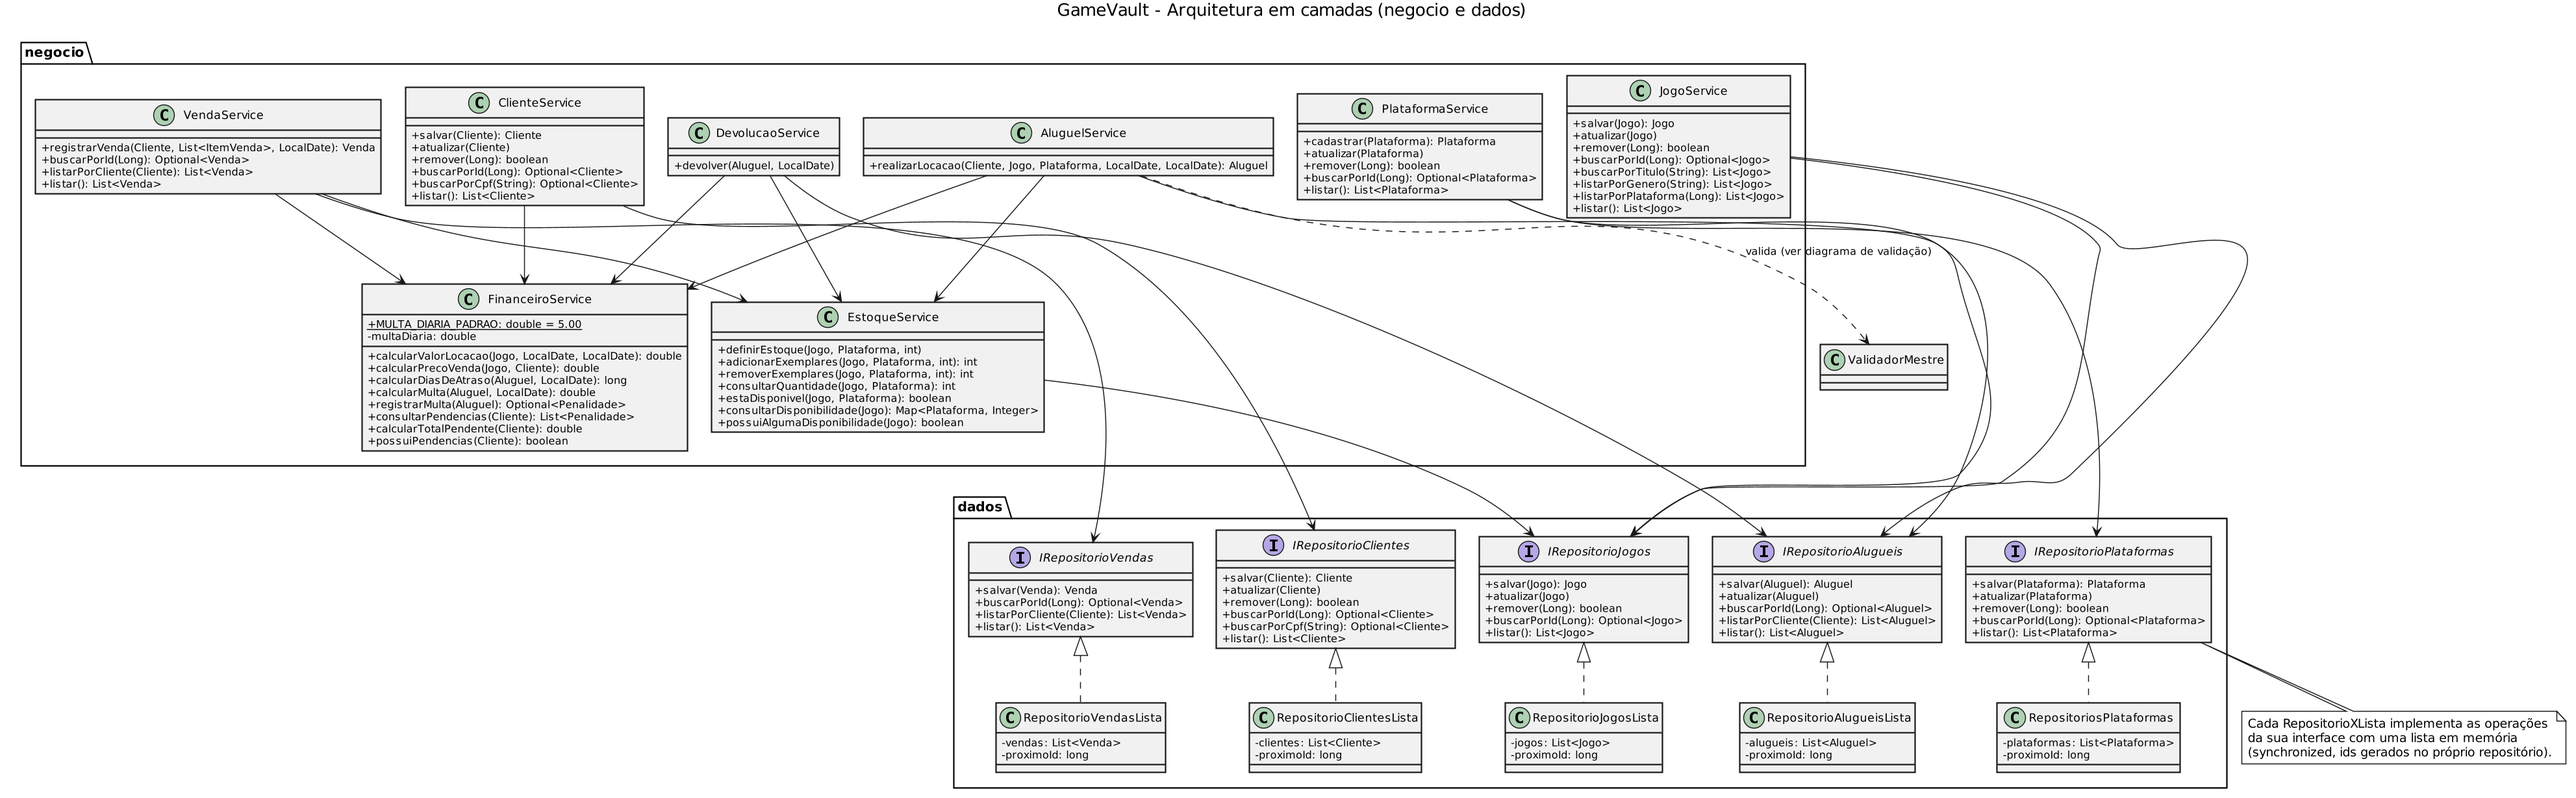
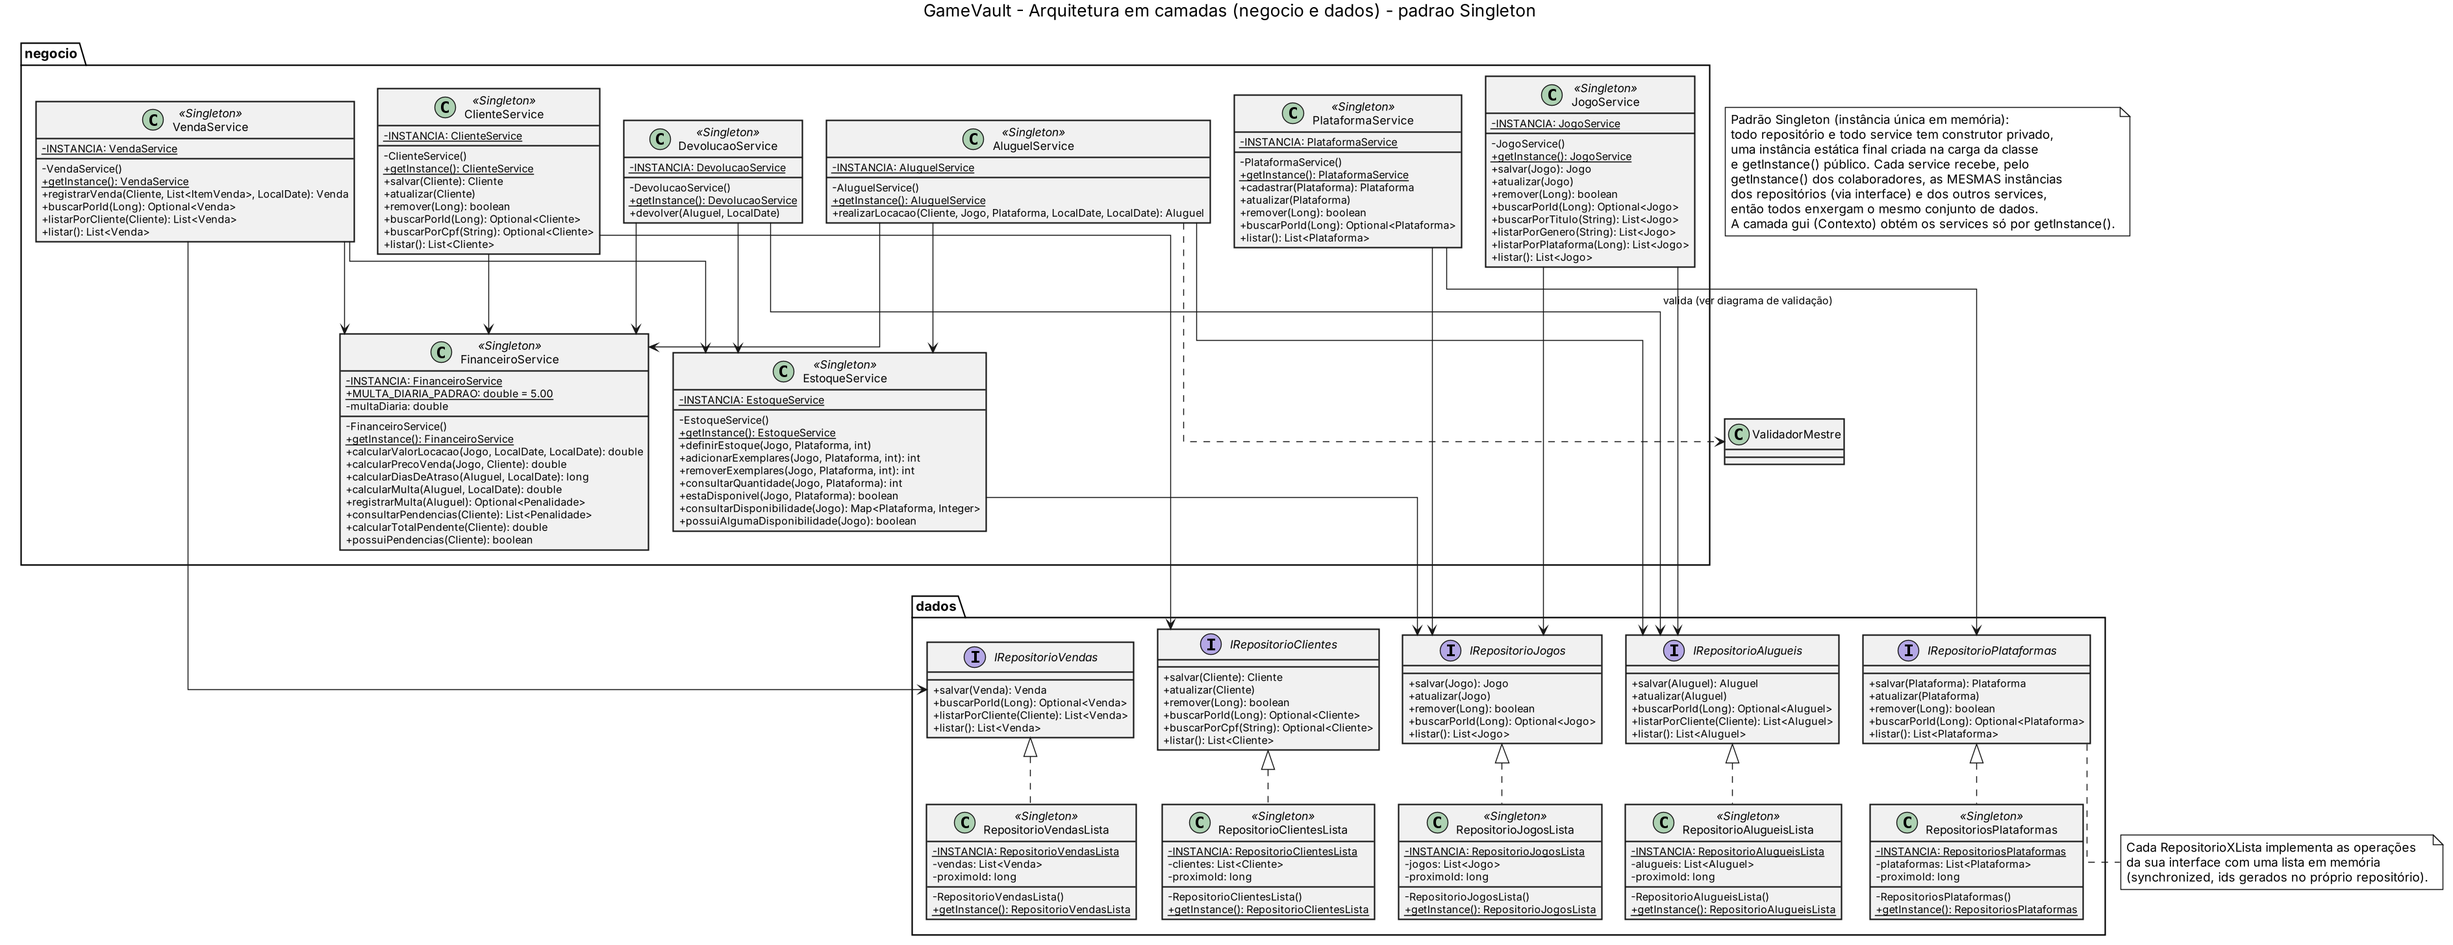
implementação do padrao singleton nos services

diff --git a/src/gui/Contexto.java b/src/gui/Contexto.java
@@ -1,8 +1,12 @@
 package gui;
 
-import dados.*;
 import negocio.*;
 
+/**
+ * Ponto de acesso da interface aos services. Os services (e os repositórios por trás deles) são
+ * Singletons: existe uma única instância de cada um em memória, então telas diferentes enxergam
+ * os mesmos dados.
+ */
 public class Contexto {
 
     private static final Contexto INSTANCIA = new Contexto();
@@ -11,21 +15,20 @@ public class Contexto {
     private final ClienteService clienteService;
     private final EstoqueService estoqueService;
     private final AluguelService aluguelService;
+    private final DevolucaoService devolucaoService;
+    private final VendaService vendaService;
+    private final FinanceiroService financeiroService;
     private final PlataformaService plataformaService;
 
     private Contexto() {
-        // Repositorios
-        IRepositorioJogos repoJogos = new RepositorioJogosLista();
-        IRepositorioClientes repoClientes = new RepositorioClientesLista();
-        IRepositorioAlugueis repoAlugueis = new RepositorioAlugueisLista();
-        IRepositorioPlataformas repoPlataformas = new RepositoriosPlataformas();
-
-        // Services
-        this.jogoService = new JogoService(repoJogos, repoAlugueis);
-        this.clienteService = new ClienteService(repoClientes);
-        this.estoqueService = new EstoqueService(repoJogos);
-        this.aluguelService = new AluguelService(estoqueService, repoAlugueis);
-        this.plataformaService = new PlataformaService(repoPlataformas, repoJogos);
+        this.jogoService = JogoService.getInstance();
+        this.clienteService = ClienteService.getInstance();
+        this.estoqueService = EstoqueService.getInstance();
+        this.aluguelService = AluguelService.getInstance();
+        this.devolucaoService = DevolucaoService.getInstance();
+        this.vendaService = VendaService.getInstance();
+        this.financeiroService = FinanceiroService.getInstance();
+        this.plataformaService = PlataformaService.getInstance();
     }
 
     public static Contexto get() { return INSTANCIA; }
@@ -34,5 +37,8 @@ public class Contexto {
     public ClienteService getClienteService() { return clienteService; }
     public EstoqueService getEstoqueService() { return estoqueService; }
     public AluguelService getAluguelService() { return aluguelService; }
+    public DevolucaoService getDevolucaoService() { return devolucaoService; }
+    public VendaService getVendaService() { return vendaService; }
+    public FinanceiroService getFinanceiroService() { return financeiroService; }
     public PlataformaService getPlataformaService() { return plataformaService; }
 }

diff --git a/src/negocio/AluguelService.java b/src/negocio/AluguelService.java
@@ -1,5 +1,6 @@
 package negocio;
 
+import dados.RepositorioAlugueisLista;
 import java.time.LocalDate;
 import java.util.ArrayList;
 import java.util.List;
@@ -18,21 +19,21 @@ import negocio.validacao.ValidadorMestre;
  */
 public class AluguelService {
 
+  // Singleton: uma única instância em memória; use AluguelService.getInstance().
+  private static final AluguelService INSTANCIA = new AluguelService(
+    EstoqueService.getInstance(), RepositorioAlugueisLista.getInstance(),
+    FinanceiroService.getInstance(), new ValidadorMestre());
+
+  public static AluguelService getInstance() {
+    return INSTANCIA;
+  }
+
   private final EstoqueService estoqueService;
   private final IRepositorioAlugueis repositorioAlugueis;
   private final FinanceiroService financeiroService;
   private final ValidadorMestre validadorMestre;
 
-  public AluguelService(EstoqueService estoqueService, IRepositorioAlugueis repositorioAlugueis) {
-    this(estoqueService, repositorioAlugueis, new FinanceiroService(), new ValidadorMestre());
-  }
-
-  public AluguelService(EstoqueService estoqueService, IRepositorioAlugueis repositorioAlugueis,
-      ValidadorMestre validadorMestre) {
-    this(estoqueService, repositorioAlugueis, new FinanceiroService(), validadorMestre);
-  }
-
-  public AluguelService(EstoqueService estoqueService, IRepositorioAlugueis repositorioAlugueis,
+  private AluguelService(EstoqueService estoqueService, IRepositorioAlugueis repositorioAlugueis,
       FinanceiroService financeiroService, ValidadorMestre validadorMestre) {
     if (estoqueService == null) {
       throw new IllegalArgumentException("O serviço de estoque é obrigatório.");

diff --git a/src/negocio/DevolucaoService.java b/src/negocio/DevolucaoService.java
@@ -1,5 +1,6 @@
 package negocio;
 
+import dados.RepositorioAlugueisLista;
 import java.time.LocalDate;
 
 import dados.IRepositorioAlugueis;
@@ -12,15 +13,20 @@ import negocio.excecoes.ValidacaoException;
  */
 public class DevolucaoService {
 
+  // Singleton: uma única instância em memória; use DevolucaoService.getInstance().
+  private static final DevolucaoService INSTANCIA = new DevolucaoService(
+    EstoqueService.getInstance(), RepositorioAlugueisLista.getInstance(),
+    FinanceiroService.getInstance());
+
+  public static DevolucaoService getInstance() {
+    return INSTANCIA;
+  }
+
   private final EstoqueService estoqueService;
   private final IRepositorioAlugueis repositorioAlugueis;
   private final FinanceiroService financeiroService;
 
-  public DevolucaoService(EstoqueService estoqueService, IRepositorioAlugueis repositorioAlugueis) {
-    this(estoqueService, repositorioAlugueis, new FinanceiroService());
-  }
-
-  public DevolucaoService(EstoqueService estoqueService, IRepositorioAlugueis repositorioAlugueis,
+  private DevolucaoService(EstoqueService estoqueService, IRepositorioAlugueis repositorioAlugueis,
       FinanceiroService financeiroService) {
     if (estoqueService == null) {
       throw new IllegalArgumentException("O serviço de estoque é obrigatório.");

diff --git a/src/negocio/VendaService.java b/src/negocio/VendaService.java
@@ -1,5 +1,6 @@
 package negocio;
 
+import dados.RepositorioVendasLista;
 import java.time.LocalDate;
 import java.util.ArrayList;
 import java.util.List;
@@ -17,15 +18,20 @@ import model.Venda;
  */
 public class VendaService {
 
+  // Singleton: uma única instância em memória; use VendaService.getInstance().
+  private static final VendaService INSTANCIA = new VendaService(
+    EstoqueService.getInstance(), RepositorioVendasLista.getInstance(),
+    FinanceiroService.getInstance());
+
+  public static VendaService getInstance() {
+    return INSTANCIA;
+  }
+
   private final EstoqueService estoqueService;
   private final IRepositorioVendas repositorioVendas;
   private final FinanceiroService financeiroService;
 
-  public VendaService(EstoqueService estoqueService, IRepositorioVendas repositorioVendas) {
-    this(estoqueService, repositorioVendas, new FinanceiroService());
-  }
-
-  public VendaService(EstoqueService estoqueService, IRepositorioVendas repositorioVendas,
+  private VendaService(EstoqueService estoqueService, IRepositorioVendas repositorioVendas,
       FinanceiroService financeiroService) {
     if (estoqueService == null) {
       throw new IllegalArgumentException("O serviço de estoque é obrigatório.");

diff --git a/src/negocio/ClienteService.java b/src/negocio/ClienteService.java
@@ -1,5 +1,6 @@
 package negocio;
 
+import dados.RepositorioClientesLista;
 import dados.IRepositorioClientes;
 import model.Aluguel;
 import model.Cliente;
@@ -10,14 +11,18 @@ import java.util.Optional;
 
 public class ClienteService {
 
+    // Singleton: uma única instância em memória; use ClienteService.getInstance().
+    private static final ClienteService INSTANCIA = new ClienteService(
+        RepositorioClientesLista.getInstance(), FinanceiroService.getInstance());
+
+    public static ClienteService getInstance() {
+        return INSTANCIA;
+    }
+
     private final IRepositorioClientes repositorioClientes;
     private final FinanceiroService financeiroService;
 
-    public ClienteService(IRepositorioClientes repositorioClientes) {
-        this(repositorioClientes, new FinanceiroService());
-    }
-
-    public ClienteService(IRepositorioClientes repositorioClientes, FinanceiroService financeiroService) {
+    private ClienteService(IRepositorioClientes repositorioClientes, FinanceiroService financeiroService) {
         if (repositorioClientes == null) {
             throw new IllegalArgumentException("O repositório de clientes deve existir.");
         }

diff --git a/src/negocio/PlataformaService.java b/src/negocio/PlataformaService.java
@@ -1,5 +1,7 @@
 package negocio;
 
+import dados.RepositorioJogosLista;
+import dados.RepositoriosPlataformas;
 import dados.IRepositorioJogos;
 import dados.IRepositorioPlataformas;
 import model.Jogo;
@@ -10,10 +12,18 @@ import java.util.Optional;
 
 public class PlataformaService {
 
+    // Singleton: uma única instância em memória; use PlataformaService.getInstance().
+    private static final PlataformaService INSTANCIA = new PlataformaService(
+        RepositoriosPlataformas.getInstance(), RepositorioJogosLista.getInstance());
+
+    public static PlataformaService getInstance() {
+        return INSTANCIA;
+    }
+
     private final IRepositorioPlataformas repositorioPlataformas;
     private final IRepositorioJogos repositorioJogos;
 
-    public PlataformaService(IRepositorioPlataformas repositorioPlataformas, IRepositorioJogos repositorioJogos) {
+    private PlataformaService(IRepositorioPlataformas repositorioPlataformas, IRepositorioJogos repositorioJogos) {
         if (repositorioPlataformas == null) {
             throw new IllegalArgumentException("O repósitorio de plataformas não pode ser vazio.");
         }

diff --git a/src/negocio/JogoService.java b/src/negocio/JogoService.java
@@ -1,5 +1,7 @@
 package negocio;
 
+import dados.RepositorioAlugueisLista;
+import dados.RepositorioJogosLista;
 import dados.IRepositorioAlugueis;
 import dados.IRepositorioJogos;
 import model.Aluguel;
@@ -14,10 +16,18 @@ import java.util.Optional;
 
 public class JogoService {
 
+    // Singleton: uma única instância em memória; use JogoService.getInstance().
+    private static final JogoService INSTANCIA = new JogoService(
+        RepositorioJogosLista.getInstance(), RepositorioAlugueisLista.getInstance());
+
+    public static JogoService getInstance() {
+        return INSTANCIA;
+    }
+
     private final IRepositorioJogos repositorioJogos;
     private final IRepositorioAlugueis repositorioAlugueis;
 
-    public JogoService(IRepositorioJogos repositorioJogos, IRepositorioAlugueis repositorioAlugueis) {
+    private JogoService(IRepositorioJogos repositorioJogos, IRepositorioAlugueis repositorioAlugueis) {
         if (repositorioJogos == null) {
             throw new IllegalArgumentException("O repositorio de jogo não pode ser nulo.");
         }

diff --git a/src/negocio/EstoqueService.java b/src/negocio/EstoqueService.java
@@ -1,5 +1,6 @@
 package negocio;
 
+import dados.RepositorioJogosLista;
 import java.util.HashMap;
 import java.util.LinkedHashMap;
 import java.util.Map;
@@ -17,9 +18,17 @@ import model.Plataforma;
  */
 public class EstoqueService {
 
+  // Singleton: uma única instância em memória; use EstoqueService.getInstance().
+  private static final EstoqueService INSTANCIA = new EstoqueService(
+    RepositorioJogosLista.getInstance());
+
+  public static EstoqueService getInstance() {
+    return INSTANCIA;
+  }
+
   private final IRepositorioJogos repositorioJogos;
 
-  public EstoqueService(IRepositorioJogos repositorioJogos) {
+  private EstoqueService(IRepositorioJogos repositorioJogos) {
     if (repositorioJogos == null) {
       throw new IllegalArgumentException("O repositório de jogos é obrigatório.");
     }

diff --git a/src/negocio/FinanceiroService.java b/src/negocio/FinanceiroService.java
@@ -22,13 +22,17 @@ public class FinanceiroService {
   //Valor cobrado por dia de atraso quando nenhuma taxa é informada.
   public static final double MULTA_DIARIA_PADRAO = 5.00;
 
-  private final double multaDiaria;
+  // Singleton: uma única instância em memória; use FinanceiroService.getInstance().
+  private static final FinanceiroService INSTANCIA = new FinanceiroService(
+    MULTA_DIARIA_PADRAO);
 
-  public FinanceiroService() {
-    this(MULTA_DIARIA_PADRAO);
+  public static FinanceiroService getInstance() {
+    return INSTANCIA;
   }
 
-  public FinanceiroService(double multaDiaria) {
+  private final double multaDiaria;
+
+  private FinanceiroService(double multaDiaria) {
     if (multaDiaria < 0) {
       throw new IllegalArgumentException("A multa diária não pode ser negativa.");
     }

diff --git a/src/gui/Principal.java b/src/gui/Principal.java
@@ -12,12 +12,12 @@ import java.util.HashMap;
 public class Principal {
 
   public static void main(String[] args) {
-    RepositorioJogosLista repo = new RepositorioJogosLista();
+    RepositorioJogosLista repo = RepositorioJogosLista.getInstance();
     Plataforma p1 = new Plataforma(1L, "PC", "MS");
     Plataforma p2 = new Plataforma(1L, "PC", "MS");
     Jogo jogo = new Jogo(1L, "T", null, null, null, null, null, null, new ArrayList<>(Arrays.asList(p1)), new HashMap<>(), null, null);
     repo.salvar(jogo);
-    EstoqueService svc = new EstoqueService(repo);
+    EstoqueService svc = EstoqueService.getInstance();
     try {
       System.out.println("adicionar=" + svc.adicionarExemplares(jogo, p2, 2));
       System.out.println("consultar=" + svc.consultarQuantidade(jogo, p1));

diff --git a/src/dados/RepositorioClientesLista.java b/src/dados/RepositorioClientesLista.java
@@ -9,6 +9,16 @@ import model.Cliente;
 /** Repositório em memória: guarda os clientes (padrão e assinantes) em uma lista. */
 public class RepositorioClientesLista implements IRepositorioClientes {
 
+  // Singleton: uma única instância em memória, compartilhada por todos os services.
+  private static final RepositorioClientesLista INSTANCIA = new RepositorioClientesLista();
+
+  public static RepositorioClientesLista getInstance() {
+    return INSTANCIA;
+  }
+
+  private RepositorioClientesLista() {
+  }
+
   private final List<Cliente> clientes = new ArrayList<>();
   private long proximoId = 1;
 

diff --git a/src/dados/RepositorioVendasLista.java b/src/dados/RepositorioVendasLista.java
@@ -10,6 +10,16 @@ import model.Venda;
 /** Repositório em memória: guarda as vendas em uma lista e gera os ids. */
 public class RepositorioVendasLista implements IRepositorioVendas {
 
+  // Singleton: uma única instância em memória, compartilhada por todos os services.
+  private static final RepositorioVendasLista INSTANCIA = new RepositorioVendasLista();
+
+  public static RepositorioVendasLista getInstance() {
+    return INSTANCIA;
+  }
+
+  private RepositorioVendasLista() {
+  }
+
   private final List<Venda> vendas = new ArrayList<>();
   private long proximoId = 1;
 
